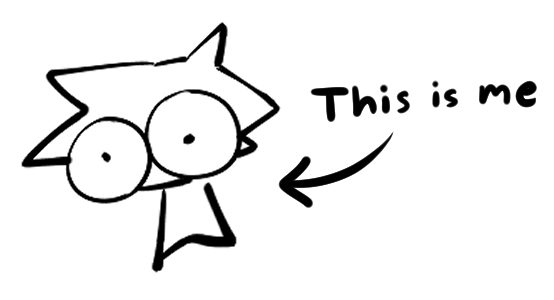
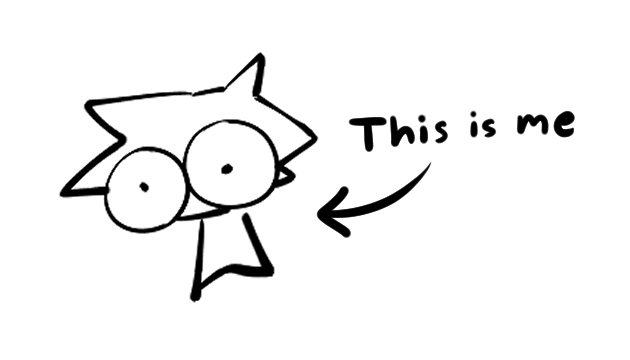
fix paddings

Changed region(s): [[0.0307, 0.06, 0.5217, 0.9], [0.5523, 0.27, 0.9819, 0.42], [0.491, 0.45, 0.7058, 0.69]]

diff --git a/assets/css/style.css b/assets/css/style.css
@@ -1,13 +1,16 @@
 :root {
     color-scheme: light;
-    --paper: #ffffff;
-    --surface: #ffffff;
-    --ink: #293a35;
-    --muted: #718078;
-    --accent: #52766a;
-    --accent-soft: #e6eee8;
-    --line: #2fd5c7;
+    --paper: #252525;
+    --surface: #252525;
+    --ink: #ffffff;
+    --muted: #ffffff;
+    --accent: #92ebe5;
+    --accent-soft: #387D78;
+    --line: #387D78;
     --body: 'Trebuchet MS', Arial, sans-serif;
+    --profile-top-gap: 30px;
+    --hobby-top-offset: 90px;
+    --social-indent: 50px;
 }
 
 * {
@@ -48,24 +51,13 @@ footer {
     justify-content: space-between;
 }
 
-.avatar-doodle {
-    display: flex;
-    align-items: center;
-    gap: 18px;
-}
-
 .profile-img {
     display: block;
-    width: 138px;
-    height: 138px;
-    border: 1px solid var(--line);
+    width: 420px;
+    height: 240px;
+    border-radius: 25px;
     background: var(--surface);
     object-fit: contain;
-}
-
-.avatar-doodle > span {
-    color: var(--muted);
-    font-size: 15px;
 }
 
 .mail-stamp {
@@ -115,14 +107,13 @@ footer {
 }
 
 .profile-sidebar {
-    padding-top: 4px;
+    padding-top: var(--profile-top-gap);
 }
 
 .profile-paper {
     min-height: 180px;
     padding: 25px 28px;
     border: 1px solid var(--line);
-    border-left: 4px solid var(--accent);
     background: var(--surface);
 }
 
@@ -151,7 +142,7 @@ footer {
     display: grid;
     justify-items: start;
     gap: 4px;
-    padding: 30px 22px 0;
+    padding: 30px 22px 0 var(--social-indent);
 }
 
 .social-links h2 {
@@ -191,9 +182,10 @@ footer {
 }
 
 .desktop-window {
-    min-height: 385px;
+    min-height: 100px;
     border: 1px solid var(--line);
     background: var(--surface);
+    transform: translateY(calc(-1 * var(--hobby-top-offset)));
 }
 
 .window-titlebar {
@@ -239,16 +231,6 @@ footer {
     list-style: none;
 }
 
-.window-content li {
-    padding-bottom: 11px;
-    border-bottom: 1px solid var(--line);
-}
-
-.window-content li:last-child {
-    padding-bottom: 0;
-    border-bottom: 0;
-}
-
 .deep-interests {
     padding: 20px 4% 72px;
     border-top: 2px solid var(--accent);
@@ -277,6 +259,12 @@ footer {
 }
 
 @media (max-width: 700px) {
+    :root {
+        --profile-top-gap: 26px;
+        --hobby-top-offset: 90px;
+        --social-indent: 40px;
+    }
+
     main {
         padding-top: 24px;
     }
@@ -284,7 +272,7 @@ footer {
     .profile-page,
     .deep-interests,
     footer {
-        width: min(100% - 36px, 530px);
+        width: min(100% - 36px, 720px);
     }
 
     .profile-page {
@@ -296,16 +284,8 @@ footer {
     }
 
     .profile-img {
-        width: 112px;
-        height: 112px;
-    }
-
-    .avatar-doodle {
-        gap: 12px;
-    }
-
-    .avatar-doodle > span {
-        font-size: 13px;
+        width: 350px;
+        height: 200px;
     }
 
     .mail-stamp {
@@ -362,6 +342,11 @@ footer {
 }
 
 @media (max-width: 380px) {
+    :root {
+        --profile-top-gap: 20px;
+        --social-indent: 18px;
+    }
+
     .profile-page,
     .deep-interests,
     footer {
@@ -377,17 +362,8 @@ footer {
     }
 
     .profile-img {
-        width: 88px;
-        height: 88px;
-    }
-
-    .avatar-doodle {
-        gap: 8px;
-    }
-
-    .avatar-doodle > span {
-        max-width: 55px;
-        font-size: 12px;
+        width: 210px;
+        height: 120px;
     }
 
     .mail-stamp {

diff --git a/index.html b/index.html
@@ -15,7 +15,6 @@
             <header class="profile-intro">
                 <div class="avatar-doodle" role="img">
                     <img src="assets/images/giikatoo-pfp.png" alt="Giikatoo pfp" class="profile-img">
-                    <span>this is me</span>
                 </div>
 
                 <a class="mail-stamp" href="mailto:rahut.n.contact@gmail.com" aria-label="ส่งอีเมลถึง Giikatoo">
@@ -31,7 +30,7 @@
                     <article class="profile-paper" aria-labelledby="profile-name">
                         <span class="paper-fold" aria-hidden="true"></span>
                         <h1 id="profile-name">Giikatoo</h1>
-                        <p>You can call me Ooh (อู๋)</p>
+                        <p>You can call me Ooh ( อู๋ )</p>
                         <p>Male</p>
                         <p><span id="age" data-birthdate="2006-05-18">calculatin g...</span> old</p>
                     </article>
@@ -66,7 +65,7 @@
         </section>
 
         <section class="deep-interests section-rule" aria-labelledby="deep-interests-title">
-            <h2 id="deep-interests-title">Some of my deep interests</h2>
+            <h2 id="deep-interests-title">Some of my specific interests</h2>
             <p>Art, technology, games, and all the tiny details that make the world interesting.</p>
         </section>
 

diff --git a/README.md b/README.md
@@ -35,15 +35,20 @@
 
 - แก้รายการใน `<ul>` ภายใน `<div class="window-content">` เพื่อใส่ความสนใจของคุณ
 - เปลี่ยนข้อความ `Some of my deep interests` ด้านล่างได้ตามต้องการ
-- รูปตัวการ์ตูนด้านบนเป็น SVG วาดใน HTML; สามารถแก้เส้นในแท็ก `<svg>` หรือแทนด้วยรูปของตัวเอง
+- เปลี่ยนรูปโปรไฟล์ได้ที่ `src` ของ `<img class="profile-img">` ใน `index.html` โดยเก็บรูปไว้ใน `assets/images/` และเขียน path ให้ตรงกับตำแหน่งไฟล์
 
 ### เปลี่ยนหน้าตา
 
 แก้ `assets/css/style.css`:
 
 - สีหลักอยู่ที่ตัวแปร `--paper`, `--ink` และ `--blue` ด้านบนไฟล์
-- `@media (max-width: 700px)` และ `@media (max-width: 380px)` กำหนดการจัดวางบนมือถือ
-- คลาส `.profile-paper`, `.social-links` และ `.desktop-window` ใช้ปรับส่วนต่าง ๆ ให้ตรงกับชื่อ
+- `.profile-layout` ใช้คอลัมน์สองฝั่งบนจอใหญ่ และเปลี่ยนเป็นคอลัมน์เดียวเมื่อหน้าจอกว้างไม่เกิน `700px`
+- `.profile-img` ปรับความมนของมุมรูปได้ที่ `border-radius` และขนาดรูปเปลี่ยนตาม breakpoint
+- `@media (max-width: 700px)` และ `@media (max-width: 380px)` ใช้จัดวางสำหรับมือถือและมือถือจอเล็ก
+- ระยะระหว่างรูปกับข้อมูลโปรไฟล์ปรับด้วย `--profile-top-gap`
+- ระยะเลื่อนหน้าต่าง Hobby & Interest ขึ้น/ลง ปรับด้วย `--hobby-top-offset`; ค่า `0px` คือไม่เลื่อน
+- ตำแหน่ง Socials & Contacts จากขอบซ้ายของคอลัมน์ปรับด้วย `--social-indent`
+- `.profile-paper`, `.social-links` และ `.desktop-window` ใช้ปรับหน้าตาแต่ละส่วน
 
 ## โครงสร้าง
 
